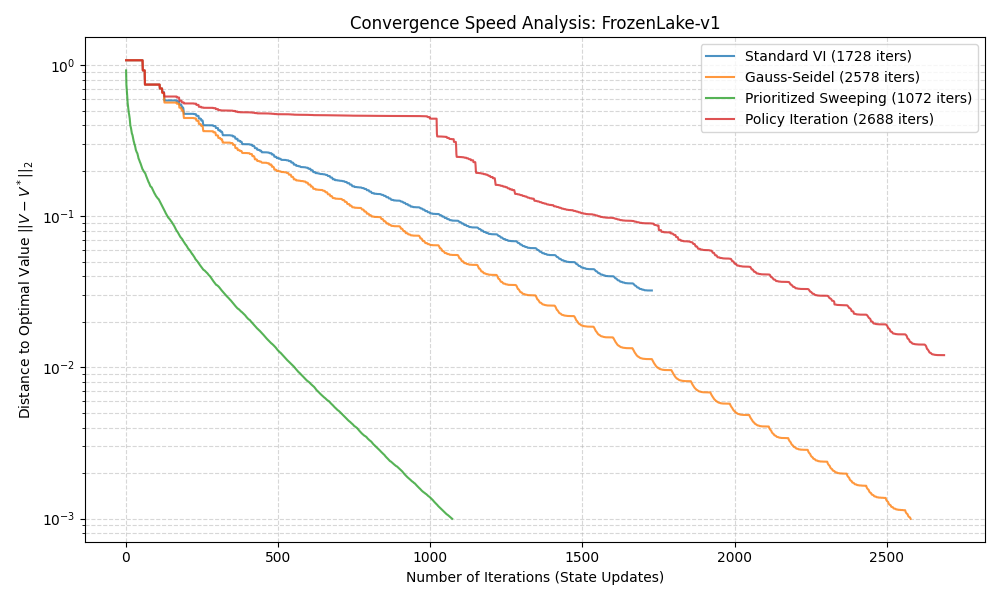
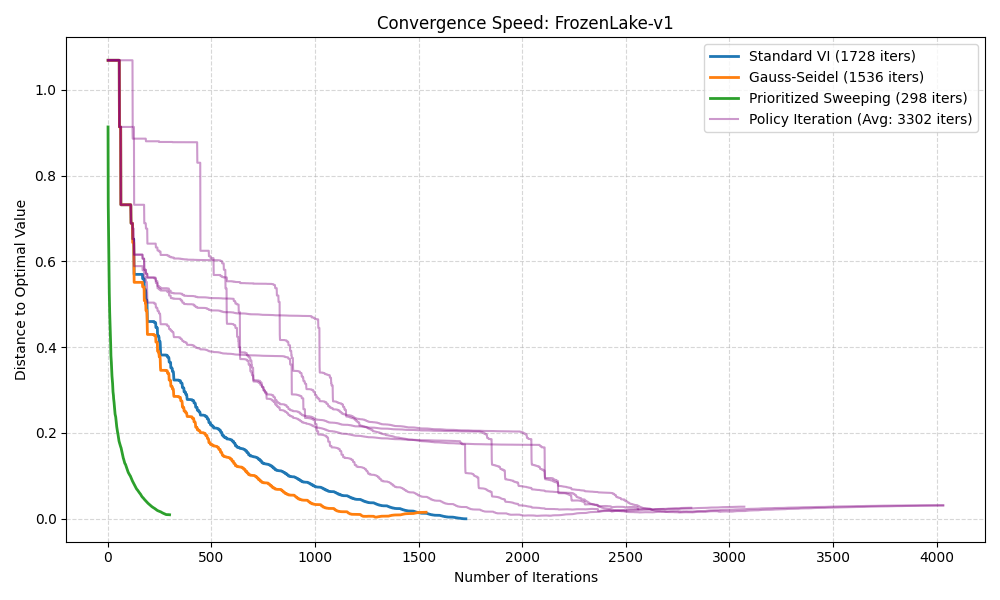
fix: optimized prioritized sweeping

diff --git a/lab03-mdp/prioritized_sweeping.py b/lab03-mdp/prioritized_sweeping.py
@@ -17,26 +17,39 @@ def prioritized_sweeping_vi(env, V_star, gamma=GAMMA, epsilon=EPSILON, max_iters
             for prob, next_state, reward, done in env.P[state][a]:
                 action_values[a] += prob * (reward + gamma * current_V[next_state])
         return np.abs(np.max(action_values) - current_V[state])
-        
+
+    # Precompute predecessor map: predecessors[s] = set of states that can transition into s
+    predecessors = {s: set() for s in range(nS)}
+    for s in range(nS):
+        for a in range(nA):
+            for prob, next_state, reward, done in env.P[s][a]:
+                if prob > 0:
+                    predecessors[next_state].add(s)
+
     for s in range(nS):
         H[s] = compute_bellman_error(s, V)
         
     while iteration_count < max_iters:
         s_k = np.argmax(H)
+        delta = H[s_k]  # the Bellman error of the state being updated
+
         action_values = np.zeros(nA)
         for a in range(nA):
             for prob, next_state, reward, done in env.P[s_k][a]:
                 action_values[a] += prob * (reward + gamma * V[next_state])
         V[s_k] = np.max(action_values)
+        H[s_k] = 0.0  # just updated, error is now ~0
         iteration_count += 1
         
-        for s in range(nS):
-            H[s] = compute_bellman_error(s, V)
+        # Only update priorities for states that can reach s_k
+        for pred in predecessors[s_k]:
+            H[pred] = compute_bellman_error(pred, V)
             
         current_norm = np.linalg.norm(V - V_star)
         norms_history.append(current_norm)
         
-        if current_norm <= epsilon:
+        # Stop when max Bellman error (delta) is small, same criterion as Standard VI
+        if delta <= epsilon or current_norm <= epsilon:
             break
     return iteration_count, norms_history
 

diff --git a/lab03-mdp/main.py b/lab03-mdp/main.py
@@ -31,7 +31,6 @@ def get_standard_vi_norms(env, V_star, gamma=GAMMA, epsilon=EPSILON, max_iters=M
             V[s] = best_action_value
             iteration_count += 1
             
-            # Track L2 norm for plotting
             current_norm = np.linalg.norm(V - V_star)
             norms_history.append(current_norm)
             
@@ -49,7 +48,7 @@ def generate_plots(env_name, is_slippery=False):
     else:
         env = gym.make(env_name)
         
-    print(f"Running on {env_name}:\n")
+    print(f"Running on {env_name}:")
 
 
     V_star, iters_vi = standard_value_iteration(env=env, gamma=GAMMA, epsilon=EPSILON, max_iters=MAX_ITERATIONS)
@@ -67,7 +66,7 @@ def generate_plots(env_name, is_slippery=False):
     pi_all_iters = []
     for i in range(5):
         iters_pi, norms_pi = policy_iteration(env=env, V_star=V_star, gamma=GAMMA, epsilon=EPSILON, max_iters=MAX_ITERATIONS)
-        print(f"[Policy Iteration] {env_name}: {iters_pi} iterations")
+        print(f"[Policy Iteration-{i+1}] {env_name}: {iters_pi} iterations")
 
         pi_all_iters.append(iters_pi)
         pi_all_norms.append(norms_pi)
@@ -88,7 +87,7 @@ def generate_plots(env_name, is_slippery=False):
     plt.xlabel('Number of Iterations')
     plt.ylabel('Distance to Optimal Value')
     
-    plt.yscale('log') 
+    #plt.yscale('log') 
     plt.grid(True, which="both", ls="--", alpha=0.5)
     plt.legend()
     plt.tight_layout()
@@ -100,4 +99,5 @@ def generate_plots(env_name, is_slippery=False):
 if __name__ == "__main__":
     print('\n\n')
     generate_plots("Taxi-v3")
+    print('\n')
     generate_plots("FrozenLake-v1", is_slippery=True)
